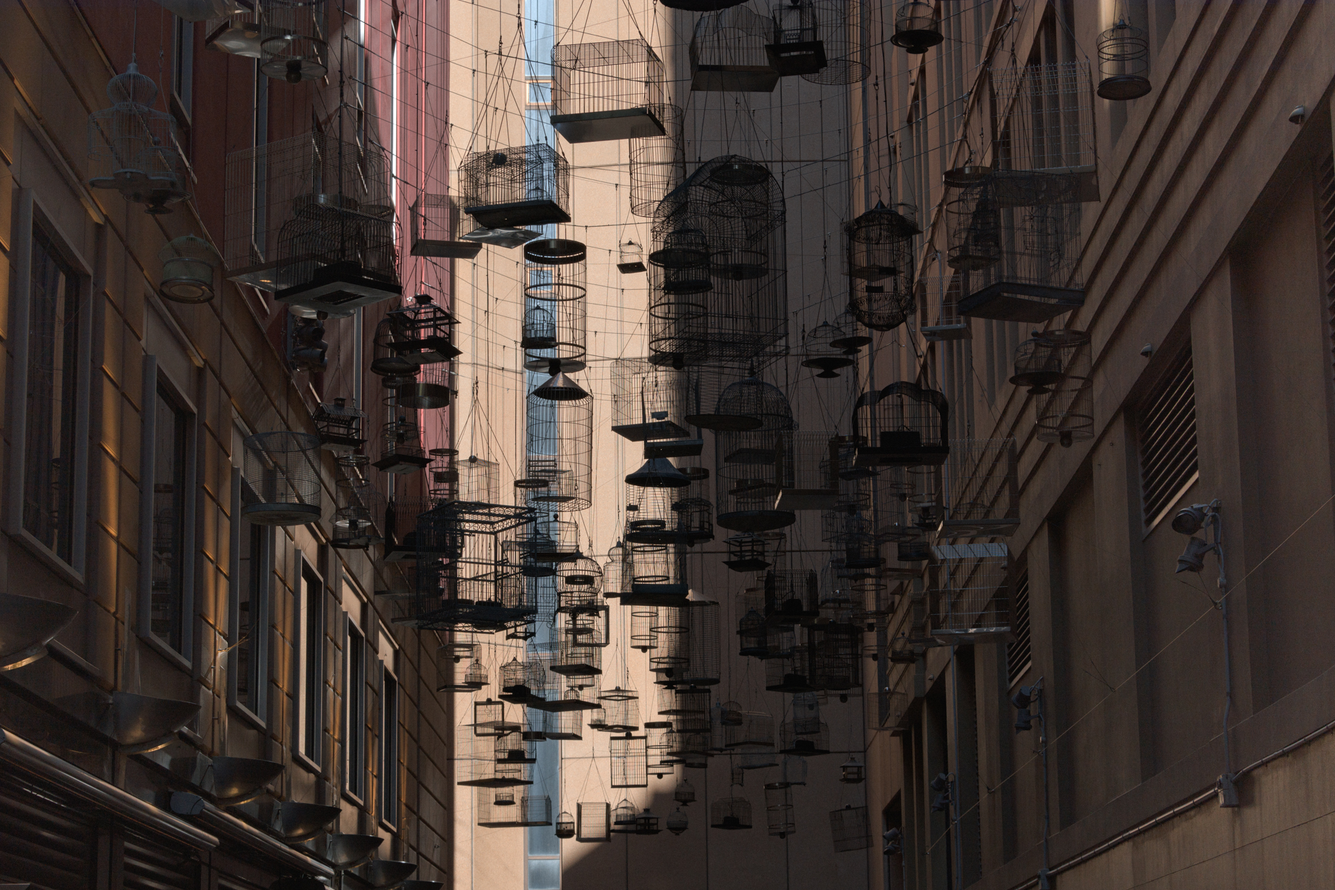
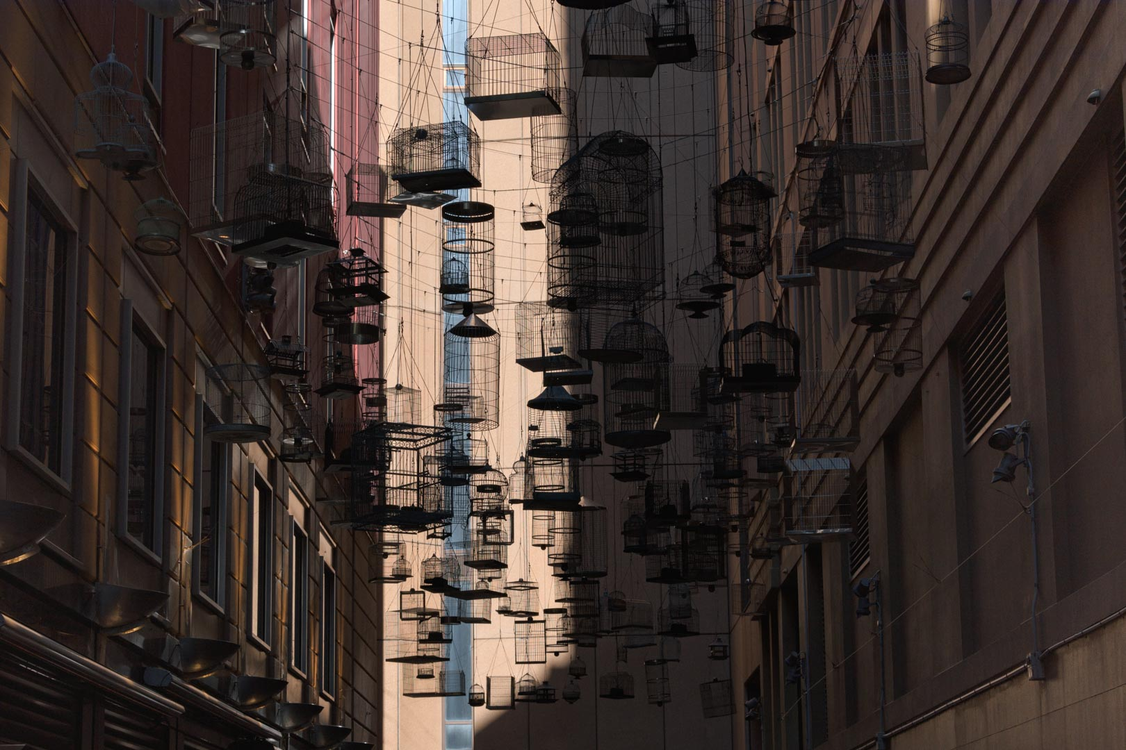
Reduced photo sizes and created python script for renaming photo files

Changed region(s): [[0.4321, 0.0611, 0.463, 0.0917], [0.4012, 0.3056, 0.4321, 0.3361], [0.3704, 0.1833, 0.4012, 0.2139]]

diff --git a/utilities/file-rename/main.py b/utilities/file-rename/main.py
@@ -1,9 +1,10 @@
 import os
+from check_dimensions import get_aspect_ratio
 
 # Enter path and folder/category name and then run script to rename files
 # in a sequential order
-path = "C:\\Users\\username\\Desktop\\folder_name"
-folder = ''
+path = "C:\\Users\\eglun\\Desktop\\gippsland_copy"
+folder = 'Gippsland'
 
 
 def rename_folder_files(file_path, folder_name):
@@ -14,7 +15,9 @@ def rename_folder_files(file_path, folder_name):
         file_name, file_ext = os.path.splitext(file)
         file_name = f"{folder_name}{str(count + 1)}"
 
-        new_name = f'{file_name}{file_ext}'
+        orientation = get_aspect_ratio(file)
+
+        new_name = f'{file_name}{file_ext}_{orientation}'
         os.rename(file, new_name)
 
 

diff --git a/utilities/file-rename/check_dimensions.py b/utilities/file-rename/check_dimensions.py
@@ -1,0 +1,16 @@
+from PIL import Image
+from PIL.ExifTags import TAGS
+
+
+def get_aspect_ratio(image_path):
+    # # Open image
+    image = Image.open(image_path)
+
+    # Get width and height
+    width = int(image.width)
+    height = int(image.height)
+
+    if width > height:
+        return "horizontal"
+    else:
+        return "vertical"
